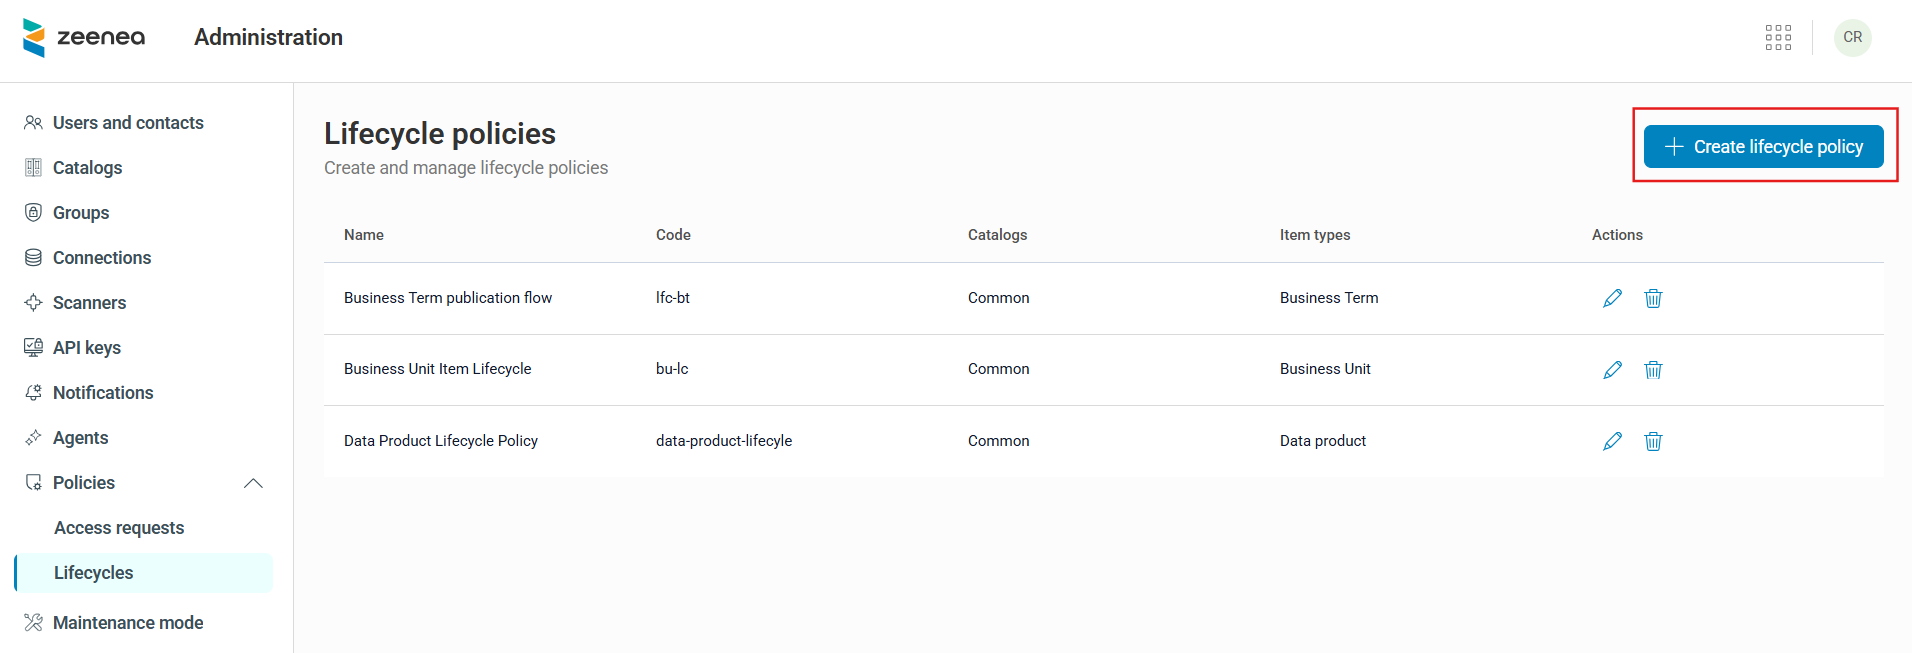
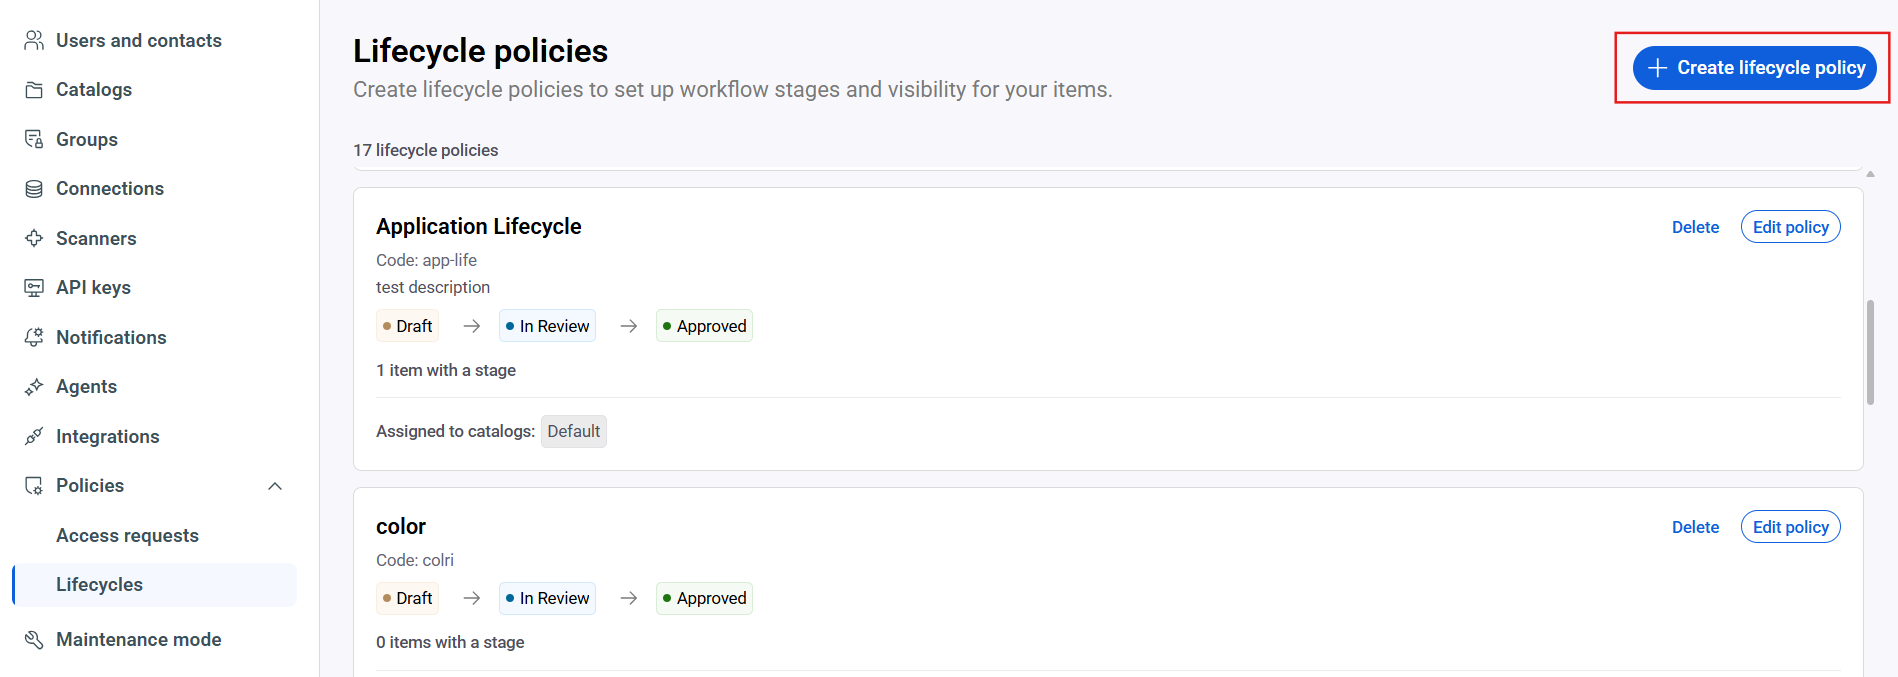
ZEE-12932: Document catalog lifecycle policy management
Update lifecycle policy guidance for compatible item types, catalog assignments, and policy switching.

diff --git a/docs/features-applications/cross-application-features/item-lifecycle-policies.md b/docs/features-applications/cross-application-features/item-lifecycle-policies.md
@@ -19,7 +19,7 @@ Each stage includes:
 * A color
 * A visibility rule that determines whether items at that stage appear in Explorer or remain visible only in Studio
 
-Lifecycle policies are scoped by catalog and item type. When you assign a policy to a catalog and item type combination, it applies to all matching items, both existing and new. Each catalog and item type combination can have only one lifecycle policy.
+Lifecycle policies are created independently of catalogs. The platform automatically determines compatible item types by evaluating the requirements configured across all stages of the policy. After a policy is created, you can apply it to a catalog and a compatible item type. The policy is then applied to matching existing and new items in that catalog. Each catalog and item type combination can have only one lifecycle policy.
 
 !!! warning "Important"
     Lifecycle policies support all item types except **Fields** and **Output ports**. Policies defined for datasets or data processes do not apply to their embedded items (such as fields or datasets).
@@ -37,6 +37,7 @@ The following table describes the key concepts used in lifecycle policies:
 | Not staged | A system stage automatically assigned to existing items when a new policy is applied, without affecting their visibility. Only Studio users can see that an item is not staged. |
 | Stage transition | The process of moving an item to the next or previous stage. |
 | Stage requirement | A condition associated with a lifecycle stage that must be satisfied before an item can transition to that stage. A stage requirement is based on an attribute that must not be empty. Requirements accumulate across stages. |
+| Compatible item type | An item type that supports all requirements defined across the stages of a lifecycle policy. The platform automatically determines compatible item types based on those requirements. |
 
 ## Typical Workflow
 
@@ -62,7 +63,7 @@ You can create new lifecycle policies in Administration.
 **To create a lifecycle policy**
 
 1. Open **Administration**.
-2. Select **Policies** > **Lifecycles**. 
+2. Navigate to **Policies** > **Lifecycles**. 
 3. Click **Create lifecycle policy**.  
    
      The **Create lifecycle policy** window opens.
@@ -74,9 +75,6 @@ You can create new lifecycle policies in Administration.
      * **Name** (required): Enter a descriptive name for the policy (for example, "Glossary Review Workflow").
      * **Code** (required): Enter a unique technical identifier.
      * **Description** (optional): Explain the purpose of this policy.
-     * **Catalogs to which the policy applies** (optional): Select one or more catalogs where the policy applies. You can leave this empty and add catalogs later by editing the policy.
-     * **Automatically apply to new catalogs** (optional): Turn on this option to automatically apply the policy to newly created catalogs.
-     * **Item types to which the policy applies** (optional): Select one or more item types to which the policy applies (all item types except Field and Output Port). You can leave this field empty and add item types later by editing the policy.
      * **Stages** (required): Define the ordered stages of the lifecycle. For more information about configuring lifecycle stages, see [Configure Lifecycle Stages](#configure-lifecycle-stages).  
 
 5. Click **Create lifecycle policy**.
@@ -85,10 +83,7 @@ You can create new lifecycle policies in Administration.
 
 
 !!! note
-    A lifecycle policy is not applied until you select at least one catalog and one item type. Until then, the policy exists but does not affect any items.
-
-!!! note
-    A catalog and item type combination can be associated with only one lifecycle policy. If you try to select a combination that is already used in another policy, the system rejects the selection.
+    Creating a lifecycle policy does not apply it to any catalog. Apply the policy separately from the **Catalogs** section in Administration. For more information, see [Apply a Lifecycle Policy to a Catalog](#apply-a-lifecycle-policy-to-a-catalog).
 
 #### Configure Lifecycle Stages
 
@@ -113,10 +108,11 @@ You can customize these stages or create your own.
            * **Studio only**: Items are hidden from Explorer.
            * **Studio and Explorer**: Items are visible in both Studio and Explorer.
      * **Color**: Select a color from the available palette.
+     * **Requirements**: Select the attributes that must be filled in before an item can transition to this stage. For more information, see [Configure Stage Requirements](#configure-stage-requirements).
 
 3. Click **Apply** to save the stage. 
    
-     The new stage appears in the list of stages for the policy.
+     The new stage appears in the list of stages for the policy. The stage card displays the configured **Visibility** and **Requirements** for the stage.
 
 **To edit an existing stage**
 
@@ -151,19 +147,26 @@ In addition to a name, code, visibility, and color, each stage (except the first
 
 **To add a stage requirement**
 
-1. Open the stage editor and locate the **stage requirements** section at the bottom of the panel.
+1. Open the stage editor and locate the **Requirements** section at the bottom of the panel.
 2. Click **Add requirement**.
-3. Select an **Attribute** to require:
-     
-     * **Description**: The item's description field.
-     * A **property** from the item type templates covered by the policy.
-     * A **responsibility** type defined in Studio, such as Data owner, Steward, or Curator.
+3. Select a requirement from the list.<br/>Requirements are grouped by category, including:
 
-4. Click **Apply** to save the requirement.
+    - **Description**: The item's description field.
+    - **Responsibilities**: Responsibility types defined in Studio, such as Data Owner, Steward, or Curator.
+    - **Properties**: Properties defined in item type templates.
+
+4. Click **Apply**.
 
 ![](./images/configure-lifecycle-policy-stage-requirement.png)
 
-When a lifecycle policy covers multiple item types, the property list displays only the properties that are common to all item types covered by the policy.
+When configuring stage requirements, the platform evaluates which item types support the selected requirements.
+
+The requirement selection list displays all available requirements. Requirements that are compatible with the requirements already configured in the lifecycle policy can be selected.
+
+!!! warning "Important"
+    Only compatible requirements can be selected. Requirements that conflict with the existing selection remain visible but are disabled.
+
+As requirements are added, removed, or modified, the platform automatically updates the list of selectable requirements and recalculates the list of compatible item types.
 
 A stage can have multiple requirements. Before an item can transition to a stage, it must meet all requirements for that stage and all previous stages. For more information, see [Cumulative Enforcement](#cumulative-enforcement).
 
@@ -178,15 +181,67 @@ Stage requirements apply only when moving an item forward to a later stage. Movi
 !!! warning
     The platform does not automatically move an item when it later meets or no longer meets a stage's requirements. The platform checks requirements only when a stage transition is attempted.
 
+#### Compatible Item Types
 
-#### Apply the Policy
+Lifecycle policies automatically determine the item types to which they can be applied.
 
-After you save the policy, it takes effect immediately:
+The platform evaluates the requirements configured across all lifecycle stages and identifies the item types that support those requirements. As requirements are added, removed, or modified, the platform automatically updates the list of compatible item types.
+
+Compatible item types are displayed at the bottom of the lifecycle policy editor. The section displays the number of compatible item types and lists the item types that support the currently selected requirements.
+
+When applying a lifecycle policy to a catalog, only compatible item types can be selected.
+
+#### Apply a Lifecycle Policy to a Catalog
+
+You can apply a saved lifecycle policy to a catalog and item type from the **Catalogs** section in Administration.
+
+**To apply a lifecycle policy**
+
+1. Navigate to **Administration > Catalogs**.
+2. Open the catalog menu (⋮).
+3. Select **Manage lifecycle policies**.
+    
+    The **Lifecycle policies** tab opens.
+
+4. Click **Apply policy**.
+5. Select one or more item types.
+6. Click **Continue**.
+7. Select a lifecycle policy for the selected item types.
+8. Click **Apply policy**.
+
+The policy takes effect immediately:
 
 * New items matching the policy’s catalog and item type criteria are automatically assigned the first stage when created (through Studio, API, or scanner import).  
 * Existing items that match the criteria are assigned a **Not staged** status. The **Not staged** status is visible only in Studio and does not affect the item’s visibility in Explorer.
 
 After applying a policy, use the stage filter in Studio to find items with the **Not staged** status. You can then update item stages individually or in bulk.
+
+### Switch a Lifecycle Policy for an Item Type
+
+You can switch the lifecycle policy assigned to an item type in a catalog without affecting other item types. During the switch process, stages from the current policy are mapped to stages in the new policy. This allows existing items to retain their lifecycle progress.
+
+**To switch a lifecycle policy**
+
+1. Navigate to **Administration > Catalogs**.
+2. Open the catalog menu (⋮).
+3. Select **Manage lifecycle policies**.
+    
+    The **Lifecycle policies** tab opens.
+
+4. Click **Change policy** next to the item type.
+5. Select the new **Lifecycle Policy**, then select **Continue**.<br/>The platform proposes initial stage mappings between the current policy and the new policy.
+6. Review and adjust the stage mapping as required.
+7. Click **Continue**.
+8. Review the switch summary, including the number of affected items and the stage mappings to be applied.
+9. Click **Switch policy** to confirm the change.
+
+The policy switch takes effect immediately. During the switch, items assigned to the previous policy are migrated to the corresponding stages in the new policy based on the configured stage mappings.
+
+!!! note
+
+    Changing a lifecycle policy triggers reindexing of all affected items in the search index. Depending on the number of affected items, this process can take some time.
+
+    Search results may be temporarily incomplete while reindexing is in progress.
 
 ### Edit a Lifecycle Policy
 
@@ -195,15 +250,13 @@ You can edit lifecycle policies from Administration.
 **To edit a lifecycle policy**
 
 1. Open **Administration**.
-2. Select **Policies** > **Lifecycles**. 
-3. Click the pencil icon next to the policy in the **Actions** column. 
+2. Navigate to **Policies** > **Lifecycles**. 
+3. Select **Edit policy** next to the policy.
    
      The **Edit lifecycle policy** window opens.
 
 4. Make the required changes to the policy attributes or stages.
 5. Click **Save changes**.
-
-![](./images/create-lifecycle-policy-edit.png)
 
 ### Delete a Lifecycle Policy
 
@@ -212,14 +265,12 @@ You can delete a lifecycle policy from Administration.
 **To delete a lifecycle policy**:
 
 1. Open **Administration**.
-2. Select **Policies** > **Lifecycles**. 
-3. Click the trash icon next to the policy in the **Actions** column. 
+2. Navigate to **Policies** > **Lifecycles**. 
+3. Select **Delete** next to the policy. 
    
      The **Delete lifecycle policy** dialog opens.
 
 4. Click **Confirm**. 
-
-![](./images/create-lifecycle-policy-delete.png)
 
 ### Lifecycle Policy Updates
 
@@ -227,14 +278,12 @@ The following table describes how the platform handles changes to lifecycle poli
 
 | Action | Behavior |
 | :---- | :---- |
-| Add a catalog to a policy | You can add a catalog only if no other policy covers the same catalog and item type combination. Existing items in that catalog are updated asynchronously to **Not staged**. |
-| Remove a catalog from a policy | All matching items lose their stage and return to a no-stage state. At least one catalog must remain associated with the policy. |
-| Add an item type to a policy | You can add an item type only if no other policy covers the same catalog and item type combination. |
-| Remove an item type from a policy | All matching items return to a no-stage state. At least one item type must remain associated with the policy. |
+| Apply a policy to a catalog and item type | Apply a saved policy from the **Catalogs** section. Each catalog and item type combination can have only one lifecycle policy. |
+| Switch a policy for an item type |  Map stages from the current policy to stages in the new policy. When the switch is completed, items are moved to the corresponding stages in the new policy based on the configured mappings. |
 | Add a stage | No impact on existing items. |
 | Delete a stage | You can delete a stage only if no items are currently assigned to it. |
 | Delete a policy | All matching items return to a no-stage state. A confirmation dialog appears before the deletion is completed. |
-| Delete a catalog from the tenant | The catalog is automatically removed from any lifecycle policies that reference it. |
+| Delete a catalog from the tenant | The catalog's lifecycle policy assignments are removed. |
 
 ### Stage Requirement Updates
 
